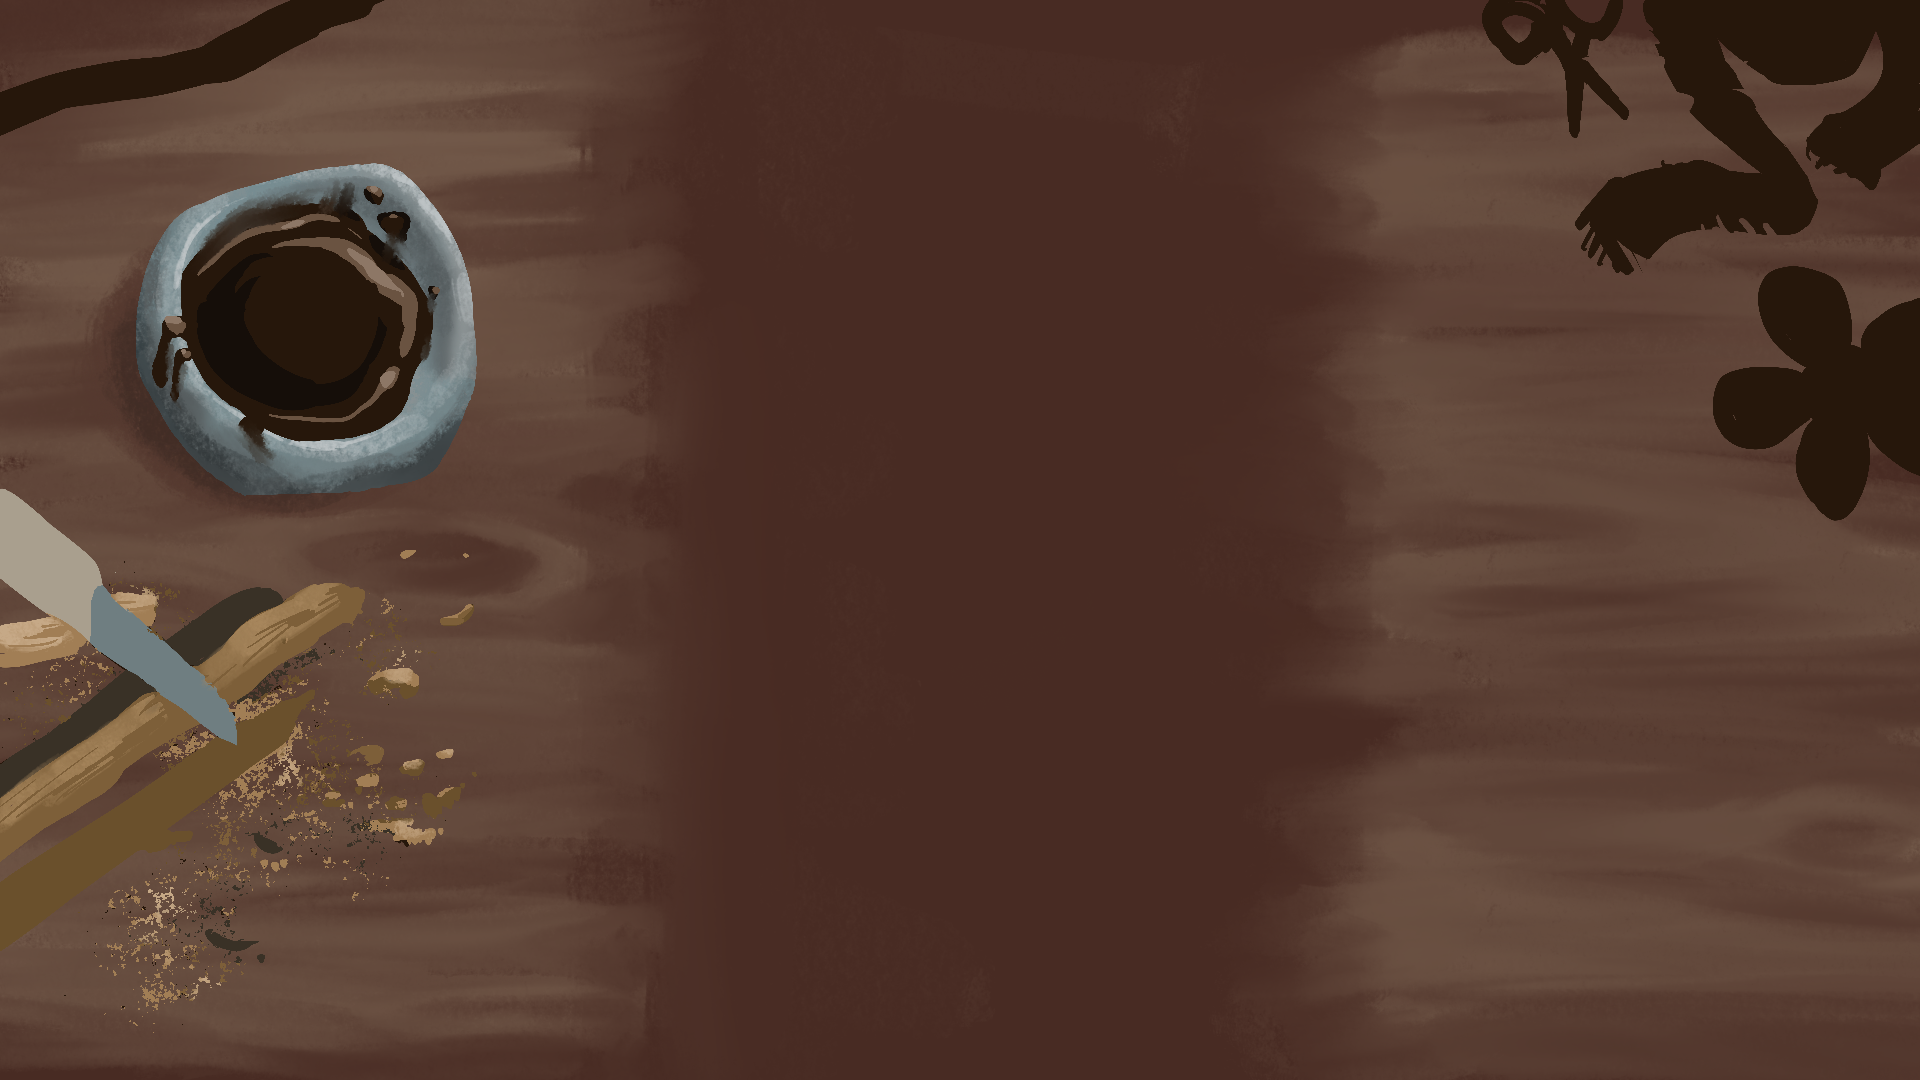
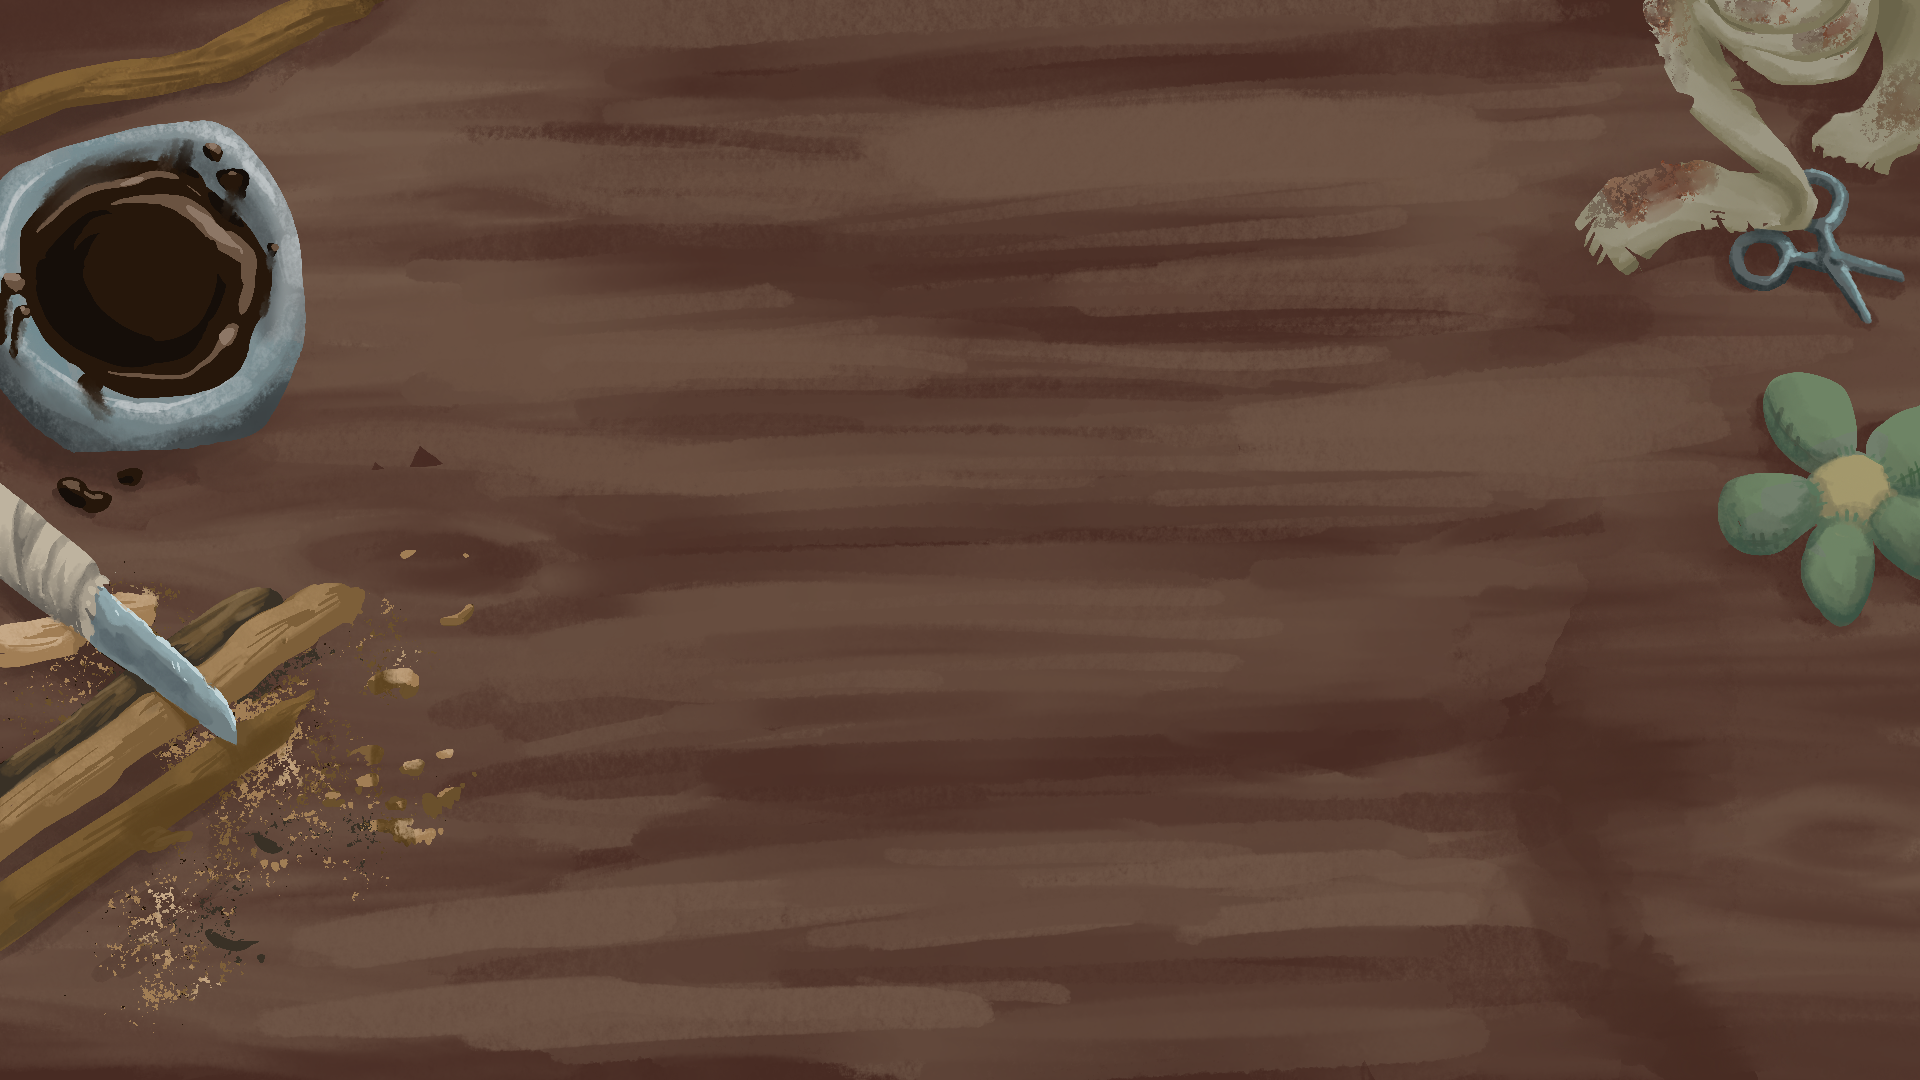
parchment shadow appears at the same time as the parchment started trying to show hand

diff --git a/web_export/style.css b/web_export/style.css
@@ -104,14 +104,29 @@ h2 {
 
 .container {
     display: block;
+    max-width: 800px;
+    padding: 100px;
+    padding-top: 10px;
+    top: 0 auto;
+    margin: 0 auto;
+    background-image: url("Images/parchment_background.PNG"), url("Images/parchment_shadow.PNG");
+    background-size: 70%, 80% 100%;
+    background-attachment: local, fixed;
+    background-position: center top, center top;
+    background-repeat: repeat-y, no-repeat;
+}
+
+.hand {
+    display: block;
+    position:sticky;
     max-width: 600px;
     padding: 26px;
     padding-top: 10px;
     top: 0 auto;
     margin: 0 auto;
-    background-image: url("Images/parchment_background.PNG");
+    background-image: url("Images/writing_hand.PNG");
     background-size: cover;
-    background-color: transparent;;
+    background-color: transparent;
 }
 
 @media screen and (prefers-reduced-motion: no-preference) {
@@ -127,17 +142,18 @@ h2 {
 }
 
 p {
+    margin: 0 80px 0 80px;
     font-size: 22px;
     color: #441b08;
-    line-height: 1em;
+    line-height: 1.2em;
     font-family: sans-serif;
 }
 
 a {
     font-weight: 600;
     color: #b97c2c;
-    font-size: 22px;
-    line-height: 1em;
+    font-size: 20px;
+    line-height: 1.2em;
     font-family: sans-serif;
     text-decoration: none;
 }
@@ -151,7 +167,7 @@ a {
 }
 
 a:hover {
-    color: #441b08;
+    color: white;
 }
 
 @media screen and (prefers-reduced-motion: no-preference) {
@@ -170,9 +186,9 @@ strong {
 }
 
 img {
+    margin: 0 80px 0 80px;
     display: block;
-    margin: 0 auto;
-    max-width: 100%;
+    max-width: 72%;
 }
 
 .container .hide {
@@ -199,14 +215,14 @@ img {
 */
 .choice {
     text-align: center;
-    line-height: 1em;
+    line-height: 1.7em;
 }
 
 /* 
   Class applied to first choice
 */
 :not(.choice)+.choice {
-    padding-top: 1.2em;
+    padding-top: 2em;
 }
 
 /*
@@ -247,7 +263,7 @@ img {
 }
 
 #controls [disabled] {
-    color: gray;
+    color: #444;
 }
 
 #controls>*:not(:last-child):after {
@@ -287,7 +303,12 @@ img {
 
 .dark a {
     font-family: best-font;
+    font-size: 22px;
     color: #cc8f1a;
+}
+
+.dark a:hover{
+    color: white
 }
 
 .dark .unclickable{
@@ -315,4 +336,5 @@ img {
 
 .dark #controls {
     font-family: best-font;
+    color: white;
 }

diff --git a/web_export/index.html b/web_export/index.html
@@ -19,14 +19,13 @@
           <a id="rewind" title="Restart story from beginning">restart</a>
           <a id="save" title="Save progress">save</a>
           <a id="reload" title="Reload from save point">load</a>
-          <a id="theme-switch" title="Switch theme">theme</a>
+          <a id="theme-switch" title="Switch font">font</a>
         </div>
+	
 
-        <div id="story" class="container">
-            <div class="header">
-                <h2 class="byline"></h2>
-            </div>
-        </div>
+	
+	<div class="hand"></div>
+
     </div>
 
     <script src="ink.js"></script>
